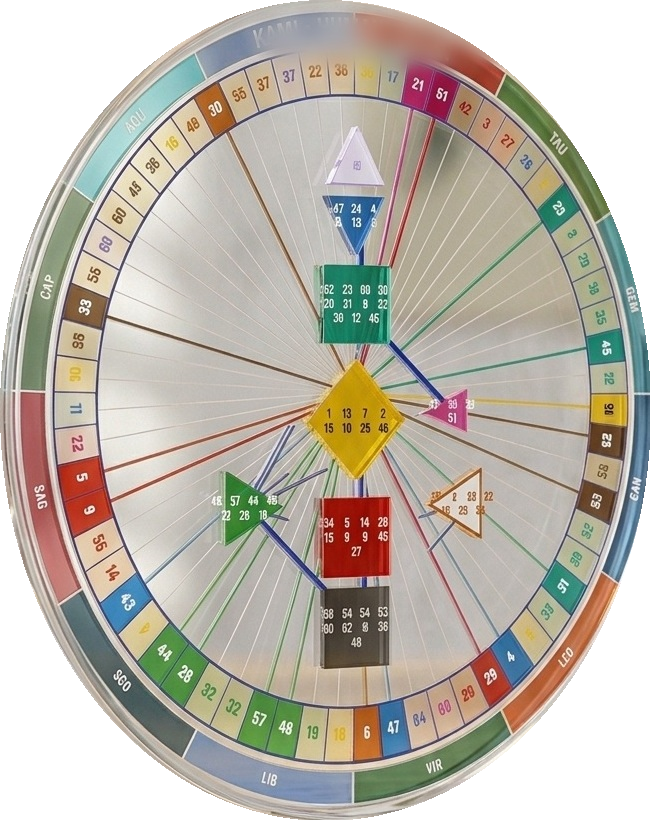
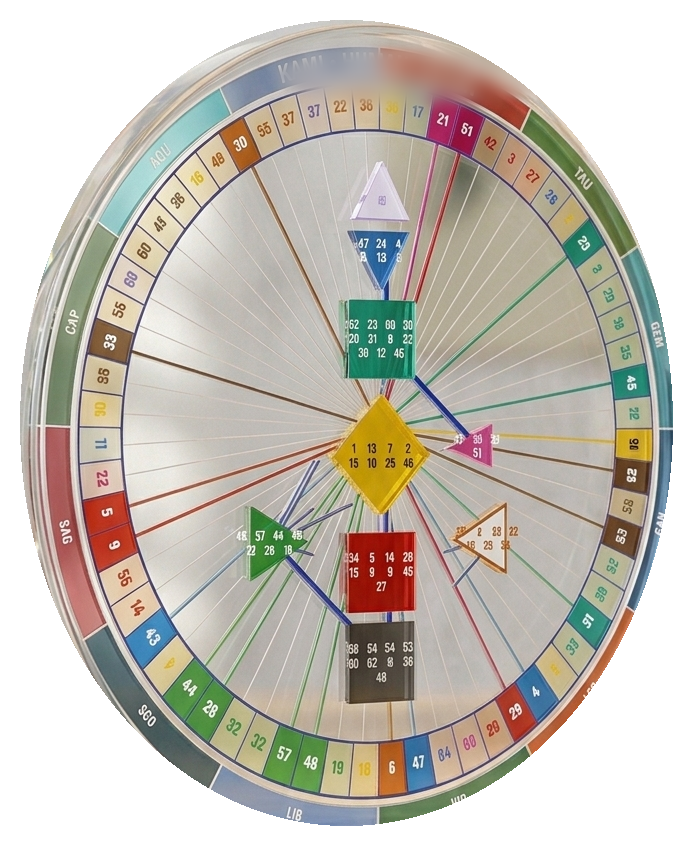
Fix clipped glass rim, key-point styling, and remove grey from landing page
- Re-measured the HD disc's true outer edge directly on the source photo
  and rebuilt hd-disc-circle.png with a generously-margined crop and a
  mask matched to the disc's real shape, not the crop rectangle's frame.
  The previous mask was fit to the box and clipped part of the outer
  glass rim's thickness.
- Rewrote the systems caption (Astrology / Numerology / Human Design) to
  keep each system name on one line and gave it real typographic weight
  instead of reading as an afterthought caption.
- Reworked the key-point list: removed the card boxes (background/border)
  so the text itself carries the emphasis, with key words in a blue
  accent instead of plain bold.
- Removed the remaining grey tone (--ink-soft) from the page entirely,
  replaced with the blue accent color throughout.

diff --git a/landing.html b/landing.html
@@ -14,14 +14,18 @@
 
   hd-disc-circle.png is her real Human Design chart photo -- name blurred
   out (the original said "Kami" on the rim, minimal blur radius, nothing
-  else touched), then a plain full-frame ellipse alpha mask applied
-  directly over the already-tightly-trimmed real photo: everything
+  else touched), then an alpha mask matched to the disc's own measured
+  true edge (found by pixel measurement on the source photo, not
+  guessed) is applied over a generously-margined crop: everything
   outside the true disc silhouette is real transparency, zero blurred or
-  reconstructed fill. An earlier version that blur-filled small
-  background gaps inside the circle was rejected as "faking" the photo --
-  that version is gone; do not reintroduce any blur/reconstruction fill.
-  Plain transparency-only circle masking (this version) is correct and
-  approved.
+  reconstructed fill. A first attempt fit the mask to the crop
+  rectangle's own frame instead of the disc's real (non-rectangular)
+  proportions and clipped part of the outer glass rim's thickness --
+  fixed by re-measuring the true edge directly and matching the mask to
+  it. An earlier, separate attempt that blur-filled small background
+  gaps inside the circle was rejected as "faking" the photo -- do not
+  reintroduce any blur/reconstruction fill; only real photo content or
+  true transparency, nothing in between.
 -->
 <link href="https://fonts.googleapis.com/css2?family=Alex+Brush&family=Barlow+Condensed:wght@600;700;800&family=DM+Sans:wght@400;500;700&display=swap" rel="stylesheet">
 <style>
@@ -29,7 +33,7 @@
 
 :root{
   --ink:#252a30;
-  --ink-soft:#4a5057;
+  --accent:#306AC0;
 }
 
 html{min-height:100%;}
@@ -59,13 +63,13 @@ body{
   position:relative;z-index:2;
 }
 .copy-placeholder{
-  display:inline-block;border:1.5px dashed var(--ink-soft);border-radius:10px;
+  display:inline-block;border:1.5px dashed var(--accent);border-radius:10px;
   background:rgba(255,255,255,0.4);padding:0.6rem 0.85rem;
   max-width:100%;
 }
 .ph-label{
   font-family:'Barlow Condensed',sans-serif;font-weight:800;font-size:0.54rem;
-  letter-spacing:0.09em;text-transform:uppercase;color:var(--ink-soft);margin-bottom:0.25rem;
+  letter-spacing:0.09em;text-transform:uppercase;color:var(--accent);margin-bottom:0.25rem;
 }
 .ph-tagline{font-family:'DM Sans',sans-serif;font-style:italic;font-size:0.85rem;color:var(--ink);}
 
@@ -76,41 +80,37 @@ body{
   display:block;margin:1.4rem auto 0;
 }
 
-/* Ink-tinted, not white, not transparent-to-invisibility -- enough of
-   a surface to read as a considered card against a busy photo instead
-   of a thin outline floating with nothing behind it. */
-.trust-grid{
-  display:grid;grid-template-columns:1fr 1fr;gap:0.55rem;
-  max-width:340px;margin:0 auto 1.8rem;
+/* No card, no border, no fill anywhere here -- the box was competing
+   with the words for attention instead of getting out of the way. Each
+   point is just an icon + a line of real-size text; the only visual
+   weight is on the emphasized words themselves (accent color, bold). */
+.trust-list{
+  display:flex;flex-direction:column;gap:1.15rem;
+  max-width:400px;margin:0 auto 2.2rem;
 }
-.trust-card{
-  background:rgba(37,42,48,0.07);
-  border:1px solid rgba(37,42,48,0.32);border-radius:9px;
-  padding:0.55rem 0.6rem;text-align:left;
-}
-.trust-icon{width:16px;height:16px;margin-bottom:0.3rem;}
-.trust-txt{font-size:0.63rem;line-height:1.3;color:var(--ink);font-weight:600;}
-.trust-txt mark{background:none;color:var(--ink);font-weight:800;}
+.trust-row{display:flex;align-items:flex-start;gap:0.7rem;text-align:left;}
+.trust-icon{flex:0 0 auto;width:22px;height:22px;margin-top:0.12rem;}
+.trust-txt{font-size:0.95rem;line-height:1.48;color:var(--ink);font-weight:600;}
+.trust-txt mark{background:none;color:var(--accent);font-weight:800;}
 
-/* The lead offer line -- no box, set apart with real typography instead
-   of a card, since it's the actual free-reading offer, not a bullet
-   point like the other four. */
-.trust-lead{
-  grid-column:1 / -1;background:none;border:none;padding:0 0.1rem;text-align:center;
-  margin-bottom:0.2rem;
-}
-.trust-lead .trust-icon{display:none;}
+/* The lead offer line -- no box, no icon, set apart with real typography
+   since it's the actual free-reading offer, not a bullet point like the
+   other four. */
+.trust-lead{text-align:center;margin-bottom:1.5rem;}
 .trust-lead .trust-txt{
   font-family:'Barlow Condensed',sans-serif;font-weight:700;
-  font-size:1rem;line-height:1.4;letter-spacing:0.01em;color:var(--ink);
+  font-size:1.15rem;line-height:1.4;letter-spacing:0.01em;color:var(--ink);
 }
-.trust-lead .trust-txt mark{color:var(--ink);font-weight:800;}
+.trust-lead .trust-txt mark{color:var(--accent);font-weight:800;}
 
 .systems-caption{
-  font-family:'Barlow Condensed',sans-serif;font-weight:700;font-size:0.76rem;
-  letter-spacing:0.14em;text-transform:uppercase;color:var(--ink);text-align:center;
+  display:flex;flex-wrap:wrap;justify-content:center;align-items:baseline;gap:0.5em;
+  font-family:'Barlow Condensed',sans-serif;font-weight:800;font-size:1.15rem;
+  letter-spacing:0.05em;text-transform:uppercase;color:var(--ink);text-align:center;
+  padding-top:0.6rem;
 }
-.systems-caption span{margin:0 0.5em;color:var(--ink-soft);font-weight:400;}
+.systems-caption .sys{white-space:nowrap;}
+.systems-caption .dot{color:var(--accent);font-weight:400;}
 </style>
 </head>
 <body>
@@ -124,9 +124,14 @@ body{
     <img class="chart-circle" src="hd-disc-circle.png" alt="Human Design chart">
   </div>
 
-  <div class="trust-grid" id="trustList"></div>
+  <div class="trust-lead" id="trustLead"></div>
+  <div class="trust-list" id="trustList"></div>
 
-  <div class="systems-caption">Astrology<span>&middot;</span>Numerology<span>&middot;</span>Human Design</div>
+  <div class="systems-caption">
+    <span class="sys">Astrology</span><span class="dot">&middot;</span>
+    <span class="sys">Numerology</span><span class="dot">&middot;</span>
+    <span class="sys">Human Design</span>
+  </div>
 </div>
 
 <script>
@@ -143,15 +148,16 @@ const glassIcon = (idx)=>`<svg viewBox="0 0 24 24" fill="none" style="filter:dro
   <circle cx="7" cy="12" r="4.2" fill="rgba(255,255,255,0.22)" stroke="url(#glass-${idx})" stroke-width="1.9"/>
   <path d="M11 12h11M17 12v4M20.5 12v3" stroke="url(#glass-${idx})" stroke-width="1.9" stroke-linecap="round"/>
 </svg>`;
+const LEAD = '1 full <mark>free</mark> astrology, numerology, human design reading for you or a relationship of any two people.';
 const KEYS = [
-  '1 full <mark>free</mark> astrology, numerology, human design reading for you or a relationship of any two people.',
   'Your info is <mark>neither</mark> shared <mark>nor</mark> saved',
   '<mark>No subscriptions</mark> or auto-renewals',
   '<mark>Email</mark> is simply your key to your results and time-limited <mark>pass</mark> if you choose to purchase one.',
   'You will not receive emails from us',
 ];
+document.getElementById('trustLead').innerHTML = `<div class="trust-txt">${LEAD}</div>`;
 document.getElementById('trustList').innerHTML = KEYS.map((t,i)=>`
-  <div class="trust-card${i===0 ? ' trust-lead' : ''}">
+  <div class="trust-row">
     <div class="trust-icon">${glassIcon(i)}</div>
     <div class="trust-txt">${t}</div>
   </div>
